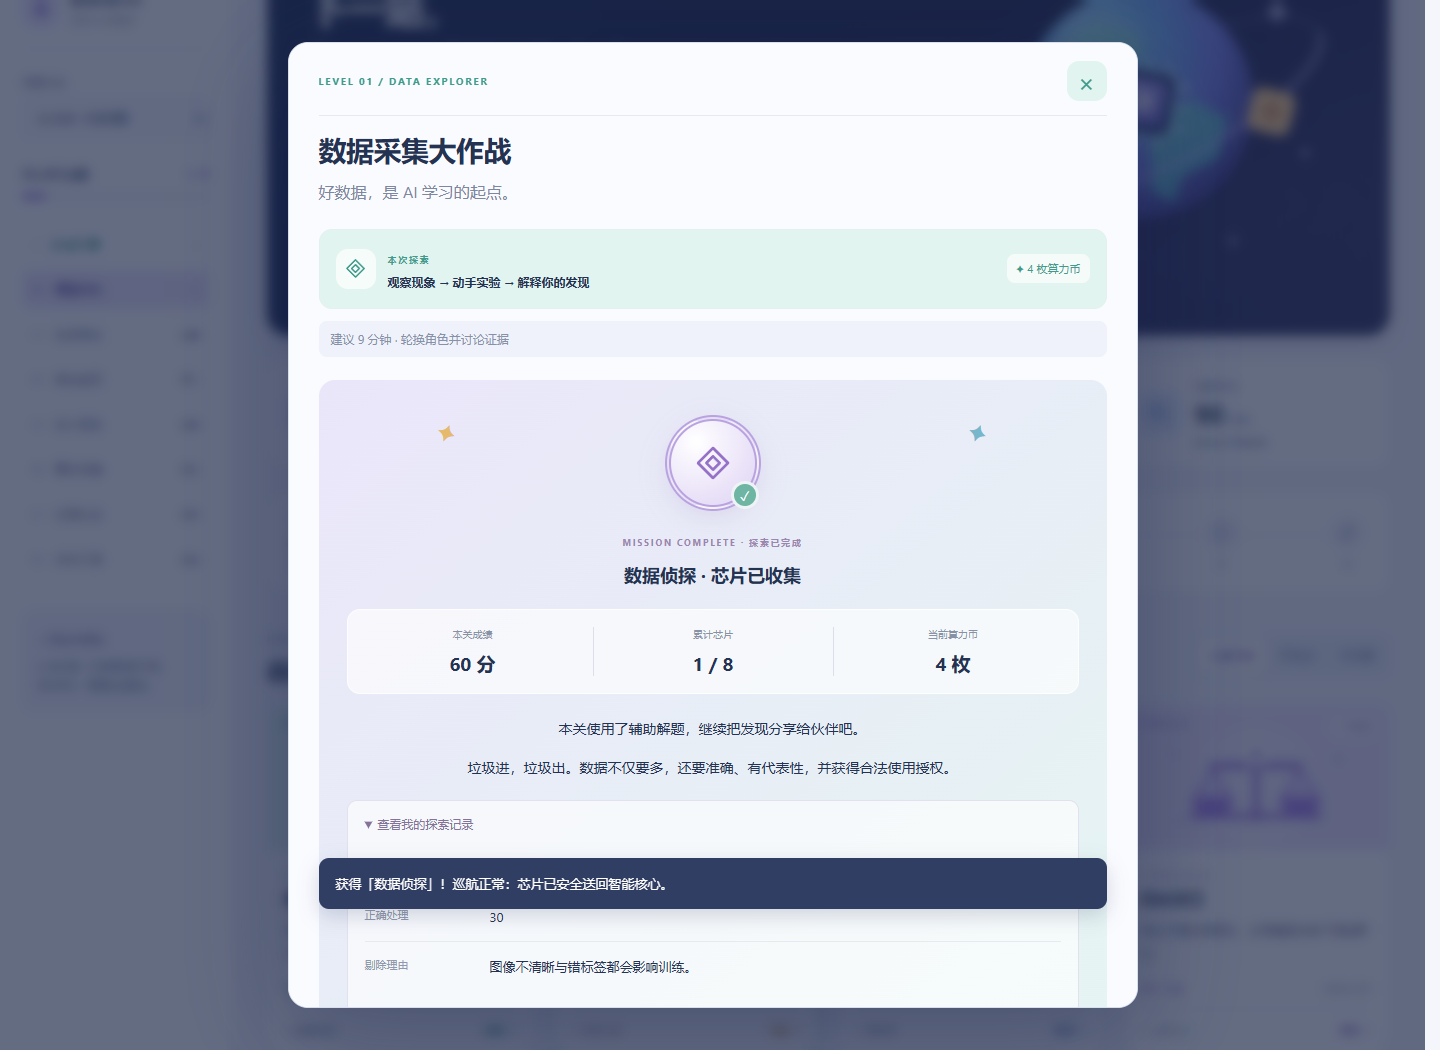
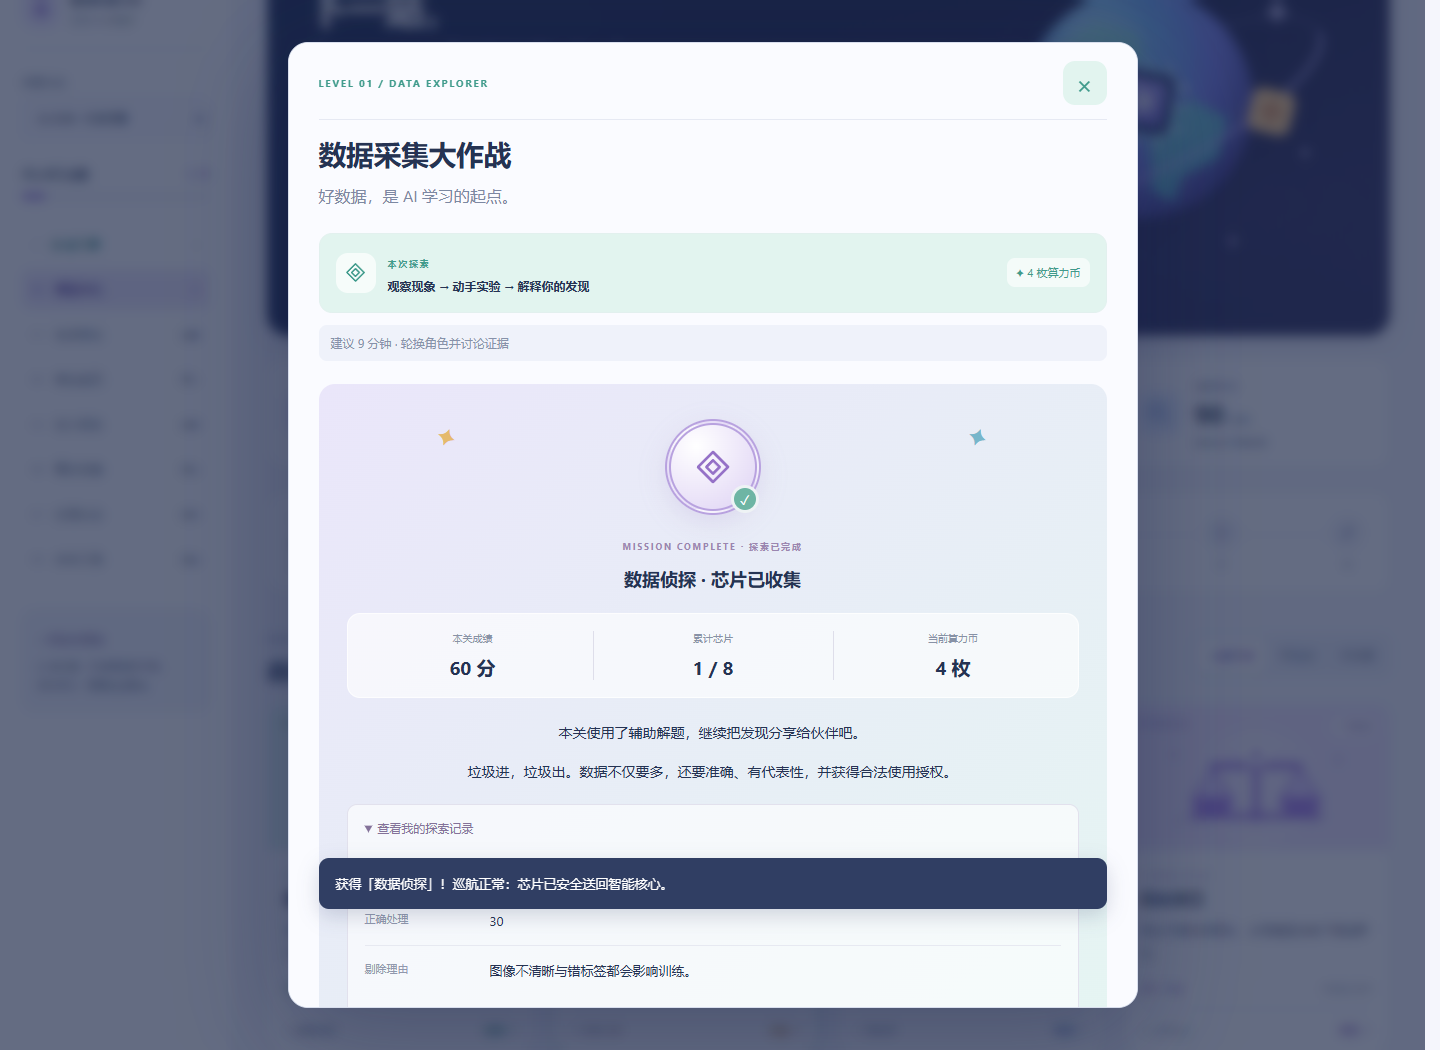
feat: refine data-card curation and review guidance (round 7)

diff --git a/app.js b/app.js
@@ -1,6 +1,6 @@
 import { newState, restore, STORAGE_KEY, unlocked, complete, buyHint, buySkip, training, balance, award } from './engine.js';
 import { stages, cards, samples } from './content.js';
-import { scene, heroArt, glyph, promptArt } from './visuals.js';
+import { scene, heroArt, glyph, promptArt, animalArt } from './visuals.js';
 
 const $ = (q, root = document) => root.querySelector(q);
 const $$ = (q, root = document) => [...root.querySelectorAll(q)];
@@ -14,6 +14,7 @@ let toastTimer;
 let filter = 'all';
 let dialogTrigger = null;
 let dialogTriggerSelector = '';
+let cardFilter='all';
 const drafts = new Map();
 function toast(message) {
   $('#toast').classList.remove('show');
@@ -47,6 +48,9 @@ function updateTaskDetails() {
     $('#data-progress').value = filled;
     $('#next-card').textContent = filled===30 ? '填写剔除理由 ↓' : '定位未处理卡片 ↓';
     choices.forEach(el=>{el.closest('.data-card').classList.toggle('classified',!!el.value);el.closest('.data-card').classList.toggle('discarded',el.value==='剔除');});
+    choices.forEach(el=>el.closest('.data-card').hidden=cardFilter==='todo'?!!el.value:cardFilter==='kept'?(!el.value||el.value==='剔除'):cardFilter==='removed'?el.value!=='剔除':false);
+    $$('[data-card-filter]').forEach(el=>el.setAttribute('aria-pressed',String(el.dataset.cardFilter===cardFilter)));
+    $('#card-filter-status').textContent=`显示 ${choices.filter(el=>!el.closest('.data-card').hidden).length} / 30 张卡片`;
   }
   if ($('#prompt-checklist')) {
     const p=$('#prompt').value;
@@ -110,7 +114,7 @@ function choice(id, options) {
   return `<select id="${id}" aria-label="${label}" required><option value="">请选择</option>${options.map((o,i)=>`<option value="${i}">${o}</option>`).join('')}</select>`;
 }
 function stageBody(id) {
-  if (id===0) return `<p>检查 30 张图标数据卡。每张卡选择正确类别，或标记为剔除；保留至少 20 张清晰且标签正确的数据。</p><div class="data-workbench"><div><small>处理进度</small><strong id="data-processed">0 / 30</strong></div><div><small>已保留</small><strong id="data-kept">0</strong></div><div><small>已剔除</small><strong id="data-discarded">0</strong></div><button type="button" class="text-button" id="next-card">定位未处理卡片 ↓</button><progress id="data-progress" max="30" value="0" aria-label="数据处理进度"></progress></div><p class="workbench-note">计数仅记录操作进度，正确性将在提交后核对。</p><div class="data-grid">${cards.map(c=>`<label class="data-card"><small>#${String(c.id+1).padStart(2,'0')} · 标签：${c.label}</small><span class="animal ${c.blurry?'blurred':''}" aria-label="${c.blurry?'模糊的': '清晰的'}${c.actual}图标">${c.icon}</span><small>${c.blurry?'图像模糊':'图像清晰'}</small><select data-card="${c.id}" aria-label="第 ${c.id+1} 张数据卡的处理方式"><option value="">未处理</option>${['猫','狗','其他','剔除'].map(t=>`<option>${t}</option>`).join('')}</select></label>`).join('')}</div>${field('剔除理由','reason','描述模糊数据与错标签会怎样影响模型。')}`;
+  if (id===0) return `<p>检查 30 张图标数据卡。每张卡选择正确类别，或标记为剔除；保留至少 20 张清晰且标签正确的数据。</p><div class="data-workbench"><div><small>处理进度</small><strong id="data-processed">0 / 30</strong></div><div><small>已保留</small><strong id="data-kept">0</strong></div><div><small>已剔除</small><strong id="data-discarded">0</strong></div><button type="button" class="text-button" id="next-card">定位未处理卡片 ↓</button><progress id="data-progress" max="30" value="0" aria-label="数据处理进度"></progress></div><p class="workbench-note">计数仅记录操作进度，正确性将在提交后核对。橙色边框表示提交后需要复查的卡片。</p><div class="card-filter-bar">${[['all','全部'],['todo','未处理'],['kept','已保留'],['removed','已剔除']].map(([key,text])=>`<button type="button" data-card-filter="${key}" aria-pressed="${key==='all'}">${text}</button>`).join('')}</div><p id="card-filter-status" class="workbench-note" role="status"></p><div class="data-grid">${cards.map(c=>`<label class="data-card"><small>#${String(c.id+1).padStart(2,'0')} · 标签：${c.label}</small><span role="img" class="animal ${c.blurry?'blurred':''}" aria-label="${c.blurry?'模糊的': '清晰的'}${c.actual}图标">${animalArt(c.actual,c.id)}</span><small>${c.blurry?'图像模糊':'图像清晰'}</small><select data-card="${c.id}" aria-label="第 ${c.id+1} 张数据卡的处理方式"><option value="">未处理</option>${['猫','狗','其他','剔除'].map(t=>`<option>${t}</option>`).join('')}</select></label>`).join('')}</div>${field('剔除理由','reason','描述模糊数据与错标签会怎样影响模型。')}`;
   if (id===1) return `<div class="notice">教学模拟 · 数值不来自真实模型训练</div><label class="input-label" for="epochs">训练轮数：<strong id="epoch-count">5</strong> 轮</label><input type="range" id="epochs" min="1" max="20" value="5"><div class="epoch-presets" aria-label="训练轮数快捷实验"><button type="button" data-epochs="3">试试 3 轮</button><button type="button" data-epochs="10">试试 10 轮</button><button type="button" data-epochs="20">试试 20 轮</button></div><div id="training-result"></div><p class="muted">试试 3、10、20 轮。训练越久，测试表现就一定越好吗？</p>${field('为什么测试准确率不是 100%？','reason','从样本差异、信息不足或模型能力解释。')}${choice('train-choice',['训练准确率高就能保证新题全对','新样本与训练数据有差异，模型也有局限'])}`;
   if (id===2) return `<div class="sample-list">${samples.map((s,i)=>`<div class="sample"><span>${s.icon}</span><div><strong>样本 ${i+1} · 真实类别：${s.actual}</strong><p>AI 预测：${s.predicted} · 置信度 ${s.confidence}%</p><meter class="confidence-meter" min="0" max="100" value="${s.confidence}" aria-label="模型置信度 ${s.confidence}%">${s.confidence}%</meter></div>${choice(`sample-${i}`,['预测正确','预测错误'])}</div>`).join('')}</div><label class="input-label" for="confidence">置信度等于正确率吗？</label>${choice('confidence',['等于，置信度 99% 就绝不会错','不等于，需要真实标签与多样本测试来评价'])}`;
   if (id===3) return `<div class="notice">教学模拟 · 初始训练集只有白猫。本关展示数据覆盖的影响，不代表真实模型必然答错。</div><div class="balance-grid">${['白猫','黑猫','花猫'].map((t,i)=>`<div class="balance-item"><span>${['🐈','🐈⬛','🐱'][i]}</span><label for="cat-${i}">${t}数据：<b id="cat-count-${i}">${i===0?18:0}</b> 张</label><input id="cat-${i}" type="range" min="0" max="20" value="${i===0?18:0}"><div class="meter"><i id="cat-bar-${i}"></i></div><small id="cat-accuracy-${i}"></small></div>`).join('')}</div><label class="input-label" for="fairness">修复后，还应该做什么？</label>${choice('fairness',['只检查总体准确率','分别测试各组表现，并持续检查代表性'])}`;
@@ -142,6 +146,7 @@ function openStage(id) {
   if ($('#mission-dialog').open) rememberDraft();
   $('#dialog-toast').hidden = true;
   const dialog = $('#mission-dialog');
+  cardFilter='all';
   dialog.className = `region-${id}`;
   if (!unlocked(state,id)) {
     active = id;
@@ -196,6 +201,7 @@ function assist(charge=true) {
   if (active===4) $('#prompt').value='一只戴宇航员头盔的橘猫，卡通风格，正在火星探索。';
   if (active===5) [0,1,1].forEach((x,i)=>$(`#claim-${i}`).value=String(x));
   if (active===6) $$('[name="ethics"]').forEach(el=>el.checked=[1,3,5].includes(Number(el.value)));
+  $$('.needs-review').forEach(el=>el.classList.remove('needs-review'));
   save(); sync(); updateTaskDetails();
 }
 function submit(event) {
@@ -217,6 +223,7 @@ function submit(event) {
     const picks=$$('[data-card]').map(e=>e.value); let clean=0, bad=0, correct=0;
     cards.forEach((c,i)=>{ if(c.clean&&picks[i]===c.actual) clean++; if(!c.clean&&picks[i]!=='剔除') bad++; if(picks[i]===(c.clean?c.actual:'剔除'))correct++; });
     ok=clean>=20&&bad===0&&correct>=28&&picks.every(Boolean)&&written('reason');
+    if (!ok) { cardFilter='all'; updateTaskDetails(); $$('[data-card]').forEach((el,i)=>el.closest('.data-card').classList.toggle('needs-review',picks[i]!== (cards[i].clean?cards[i].actual:'剔除'))); }
     answer={clean,正确处理:correct,剔除理由:val('reason')}; error=`已正确保留 ${clean} 张；尚有 ${bad} 张问题数据未剔除。至少正确处理 28 张，并写出剔除理由。`;
   }
   if (active===1) { const t=training(val('epochs')); ok=t.test>=80&&val('train-choice')==='1'&&written('reason'); answer={训练轮数:val('epochs'),测试准确率:t.test,解释:val('reason')}; error='需要测试准确率达到 80%，选对泛化解释，并写出不是 100% 的原因。'; }
@@ -232,6 +239,7 @@ function submit(event) {
 document.addEventListener('click', e=>{
   const v=e.target.closest('[data-view]'); if(v) { e.preventDefault(); view=v.dataset.view; render(); $('#main').focus({preventScroll:true}); window.scrollTo(0,0); }
   const f=e.target.closest('[data-filter]'); if(f) { filter=f.dataset.filter; render(); }
+  const cf=e.target.closest('[data-card-filter]'); if(cf) { cardFilter=cf.dataset.cardFilter; updateTaskDetails(); }
   const s=e.target.closest('[data-stage]'); if(s&&!s.disabled) openStage(Number(s.dataset.stage));
   const b=e.target.closest('button'); if(!b) return;
   if(b.id==='close-dialog') $('#mission-dialog').close();
@@ -241,7 +249,7 @@ document.addEventListener('click', e=>{
   if(b.id==='generate') generate();
   if(b.id==='download-art') { const art=$('#generation svg'); if(art) { const url=URL.createObjectURL(new Blob([art.outerHTML],{type:'image/svg+xml;charset=utf-8'})); const a=document.createElement('a'); a.href=url; a.download='AI星球-提示词模拟作品.svg'; a.click(); setTimeout(()=>URL.revokeObjectURL(url),1000); } }
   if(b.dataset.epochs) { $('#epochs').value=b.dataset.epochs; updateTraining(); updateTaskDetails(); }
-  if(b.id==='next-card') { const target=$$('[data-card]').find(el=>!el.value)||$('#reason'); target.focus(); target.scrollIntoView({block:'center',behavior:'instant'}); }
+  if(b.id==='next-card') { cardFilter='all'; updateTaskDetails(); const target=$$('[data-card]').find(el=>el.closest('.needs-review'))||$$('[data-card]').find(el=>!el.value)||$('#reason'); target.focus(); target.scrollIntoView({block:'center',behavior:'instant'}); }
   if(b.id==='save-team') { state.team=$('#team-name').value.trim()||'星际探索小队'; save(); render(); toast('小队代号已保存。'); }
   if(b.id==='export') { const blob=new Blob([JSON.stringify({...state,称号:award(state)},null,2)],{type:'application/json'}),url=URL.createObjectURL(blob),a=document.createElement('a'); a.href=url; a.download='AI星球-训练师护照.json'; a.click(); setTimeout(()=>URL.revokeObjectURL(url),1000); }
   if(b.id==='print'||b.hasAttribute('data-print')) window.print();
@@ -249,6 +257,7 @@ document.addEventListener('click', e=>{
 });
 document.addEventListener('input', e=>{ e.target.removeAttribute('aria-invalid'); if(e.target.id==='epochs') updateTraining(); if(/^cat-\d$/.test(e.target.id)) updateBalance(); if(e.target.closest('#mission-form')) updateTaskDetails(); });
 document.addEventListener('change', e=>{
+  if(e.target.matches('[data-card]')) e.target.closest('.data-card').classList.remove('needs-review');
   if(e.target.closest('#mission-form')) updateTaskDetails();
   if(['mode','map-mode','teacher-mode'].includes(e.target.id)) { state.mode=e.target.value; save(); render(); toast('探索节奏已更新。'); }
   if(e.target.classList.contains('collab')) { state.collaborationItems=$$('.collab').map(el=>el.checked); state.collaboration=state.collaborationItems.filter(Boolean).length; save(); const focused=$$('.collab').indexOf(e.target); renderPassport(); $$('.collab')[focused]?.focus(); }

diff --git a/visuals.js b/visuals.js
@@ -17,6 +17,11 @@ export function promptArt(prompt) {
   const fur=prompt.includes('黑猫')?'#555165':prompt.includes('白猫')?'#fff5df':'#efb071';
   return `<svg class="prompt-art" xmlns="http://www.w3.org/2000/svg" viewBox="0 0 640 360" role="img" aria-label="根据提示词要素生成的本地规则插画"><title>AI星球 · 提示词教学模拟作品</title><defs><linearGradient id="art-sky" x2="0" y2="1"><stop stop-color="${mars?'#333252':'#3a5975'}"/><stop offset="1" stop-color="${mars?'#7b5876':'#99bed1'}"/></linearGradient></defs><rect width="640" height="360" rx="18" fill="url(#art-sky)"/><g fill="#efe5e8"><circle cx="59" cy="49" r="2"/><circle cx="190" cy="77" r="2"/><circle cx="427" cy="48" r="2"/><circle cx="562" cy="134" r="2"/><path d="M113 93l3 7 7 3-7 3-3 7-3-7-7-3 7-3zM487 124l2 5 5 2-5 2-2 5-2-5-5-2 5-2z"/></g><circle cx="504" cy="75" r="29" fill="#d4b9d3" opacity=".7"/><ellipse cx="325" cy="373" rx="430" ry="137" fill="${mars?'#c68c7c':'#769e9e'}"/><path d="M0 315Q150 267 306 305T640 290V360H0z" fill="${mars?'#deaa8b':'#98bca2'}"/><ellipse cx="332" cy="321" rx="94" ry="14" fill="#735661" opacity=".23"/><path d="M277 241h90l13 65h-35l-9-34-9 34h-39z" fill="#e7eaf0"/><rect x="300" y="238" width="45" height="42" rx="9" fill="#ccd6eb"/><path d="M277 250l-26 33m112-33 23 16" stroke="#e6eaf3" stroke-width="17" stroke-linecap="round"/>${cat?`<path d="M268 165l4-63 43 33h26l43-32-3 66c25 73-134 81-113-4z" fill="${fur}"/><path d="M281 143l-1-23 22 18m48 0 21-17-2 24" fill="#d68b83"/><path d="M315 140l10 15 11-15" fill="none" stroke="#d28b5d" stroke-width="6"/><ellipse cx="298" cy="177" rx="6" ry="9" fill="#4c455c"/><ellipse cx="353" cy="177" rx="6" ry="9" fill="#4c455c"/><path d="M320 195l6 5 6-5" fill="#a76e74"/><path d="M312 210q14 13 29-1" stroke="#855b64" stroke-width="3" fill="none"/><path d="M277 196l-19-4m21 13-20 4m116-13 20-4m-22 13 20 4" stroke="#855f66" stroke-width="2"/>`:'<rect x="273" y="130" width="107" height="94" rx="27" fill="#d2d8ed"/><rect x="287" y="148" width="79" height="49" rx="16" fill="#3b4c6e"/><circle cx="308" cy="170" r="7" fill="#87ded9"/><circle cx="346" cy="170" r="7" fill="#87ded9"/>'}${helmet?'<circle cx="326" cy="176" r="83" fill="#d7f6ff13" stroke="#effbff" stroke-width="5"/><path d="M266 158a64 64 0 0137-44" fill="none" stroke="#fff" opacity=".6" stroke-width="7" stroke-linecap="round"/><path d="M283 241h84" stroke="#f0f4ff" stroke-width="11" stroke-linecap="round"/>':''}<path d="M431 277v-98" stroke="#ecedf4" stroke-width="4"/><path d="M433 181h54l-11 17 11 17h-54z" fill="#bea4e8"/><path d="M451 188v19m-9-10h19" stroke="#f1e6ff" stroke-width="3"/><ellipse cx="141" cy="303" rx="27" ry="8" fill="#9f756c" opacity=".3"/><path d="M126 303l9-14 21 5 5 11z" fill="${mars?'#b78071':'#77a493'}"/><text x="24" y="338" fill="#fff0df" font-family="sans-serif" font-size="10" letter-spacing="2">AI PLANET / PROMPT EXPLORATION</text></svg>`;
 }
+export function animalArt(kind, id=0) {
+  const color=['#e9b278','#bcb0cd','#d6bd9a'][Math.floor(id/3)%3];
+  const drawing=kind==='猫'?`<path d="M17 29l1-18 15 12 15-12 1 20c14 28-42 33-32-2z" fill="${color}"/><path d="M22 23v-7l7 7m12 0 5-7v7" fill="#d89491"/><circle cx="27" cy="34" r="2.8" fill="#5c5062"/><circle cx="41" cy="34" r="2.8" fill="#5c5062"/><path d="M31 41l3 3 3-3m-9 7q6 6 12 0" fill="none" stroke="#8d696a" stroke-width="2"/>`:kind==='狗'?`<path d="M20 22C7 12 5 42 16 43l8-12m20-9c12-10 18 21 6 21l-8-12" fill="#a58271"/><rect x="17" y="19" width="34" height="36" rx="15" fill="${color}"/><ellipse cx="34" cy="44" rx="12" ry="10" fill="#f6dfc0"/><circle cx="27" cy="32" r="2.7" fill="#5c5062"/><circle cx="41" cy="32" r="2.7" fill="#5c5062"/><path d="M30 41q4-4 8 0l-4 4z" fill="#6a5556"/><path d="M34 45v6" stroke="#aa7979" stroke-width="2"/>`:'<path d="M30 47V15a6 6 0 0112 0v32M31 36H21a7 7 0 01-7-7v-8a4 4 0 018 0v7h9m10 3h7V17a4 4 0 018 0v15a7 7 0 01-7 7h-8" fill="#8abc9b"/><path d="M23 46h27l-4 15H27z" fill="#d5a48c"/><path d="M36 17v23M17 24v5m35-7v9" stroke="#bed9ad" stroke-width="2" stroke-linecap="round"/>';
+  return `<svg class="animal-art" viewBox="0 0 68 68" aria-hidden="true"><ellipse cx="34" cy="61" rx="23" ry="4" fill="#6f799214"/>${drawing}</svg>`;
+}
 const scenes = [
   `<rect x="69" y="42" width="74" height="82" rx="12" fill="#a4e8d5" transform="rotate(-14 106 83)"/><rect x="125" y="37" width="78" height="88" rx="12" fill="#fff" transform="rotate(12 164 81)"/><path d="M143 67l5-15 13 11 14-7 5 15v21h-38z" fill="#ffbf81"/><circle cx="153" cy="78" r="3" fill="#29456e"/><circle cx="170" cy="78" r="3" fill="#29456e"/><path d="M96 63h24M91 77h27M88 91h17" stroke="#328e88" stroke-width="6" stroke-linecap="round"/><circle cx="203" cy="108" r="24" fill="#27bfa2"/><path d="M192 108l8 8 14-17" fill="none" stroke="white" stroke-width="5" stroke-linecap="round"/>`,
   `<path d="M73 62l42 21 34-32 46 31M73 109l42-26 36 38 44-39" fill="none" stroke="#e9a14c" stroke-width="3"/><g fill="#fff" stroke="#f2af62" stroke-width="4"><circle cx="73" cy="62" r="12"/><circle cx="73" cy="109" r="12"/><circle cx="115" cy="83" r="15"/><circle cx="149" cy="51" r="12"/><circle cx="151" cy="121" r="12"/></g><rect x="175" y="57" width="47" height="48" rx="12" fill="#fa9d43"/><path d="M186 90l9-12 8 6 9-16" fill="none" stroke="#fff" stroke-width="4" stroke-linecap="round"/>`,

diff --git a/styles.css b/styles.css
@@ -3026,3 +3026,21 @@ button:focus-visible { position:relative; z-index:2; }
   .task-context strong { font-size:11px; }
 }
 @media print { .skip-link { display:none!important; } }
+
+/* Round 7 — a readable data curation workspace */
+.animal-art { display:block; width:66px; height:66px; }
+.card-filter-bar { display:flex; gap:5px; border:1px solid #e1e8e9; background:#edf5f3; border-radius:9px; padding:4px; width:max-content; max-width:100%; }
+.card-filter-bar button { padding:9px 15px; min-height:38px; border-radius:6px; font-size:11px; color:#7a9e95; }
+.card-filter-bar button[aria-pressed=true] { background:#fff; box-shadow:0 2px 5px #648f8612; color:#487e70; }
+.data-card[hidden] { display:none; }
+.data-card.needs-review { border-color:#dba675; box-shadow:inset 0 3px 0 #dba675; background:#fff4e9; }
+.data-card.needs-review select { border-color:#dba675; }
+.data-card { position:relative; }
+.data-card.classified:after { content:"•"; position:absolute; right:7px; top:3px; color:#83bda9; font-size:18px; pointer-events:none; }
+.data-card.discarded:after { color:#b1bacb; }
+.data-card.needs-review:after { color:#cd9561; }
+@media(max-width:480px) {
+ .animal-art { width:54px; height:54px; }
+ .card-filter-bar { width:100%; }
+ .card-filter-bar button { flex:1; padding:8px 9px; min-height:44px; font-size:10px; }
+}

diff --git a/docs/POLISH_LOG.md b/docs/POLISH_LOG.md
@@ -46,6 +46,13 @@
 - 更新README中的实验可视化与专项验证说明。
 - 验证：完整浏览器回归和打印专项检查通过，无页面脚本错误。
 
+## 第 7 轮：数据卡工作台
+
+- 猫、狗和其他类别采用原创一致风格的矢量图标，保留模糊图与错标签教学任务。
+- 提供全部、未处理、已保留、已剔除筛选，处理进度仍按全部30张计算。
+- 提交后突出需要复查的卡片，并支持直接定位。
+- 验证：30张图标、四种筛选、空结果、复查定位、辅助填充和原有实验检查通过。
+
 ## 后续轮次
 
 2. 首页布局、图标和导航细节。
